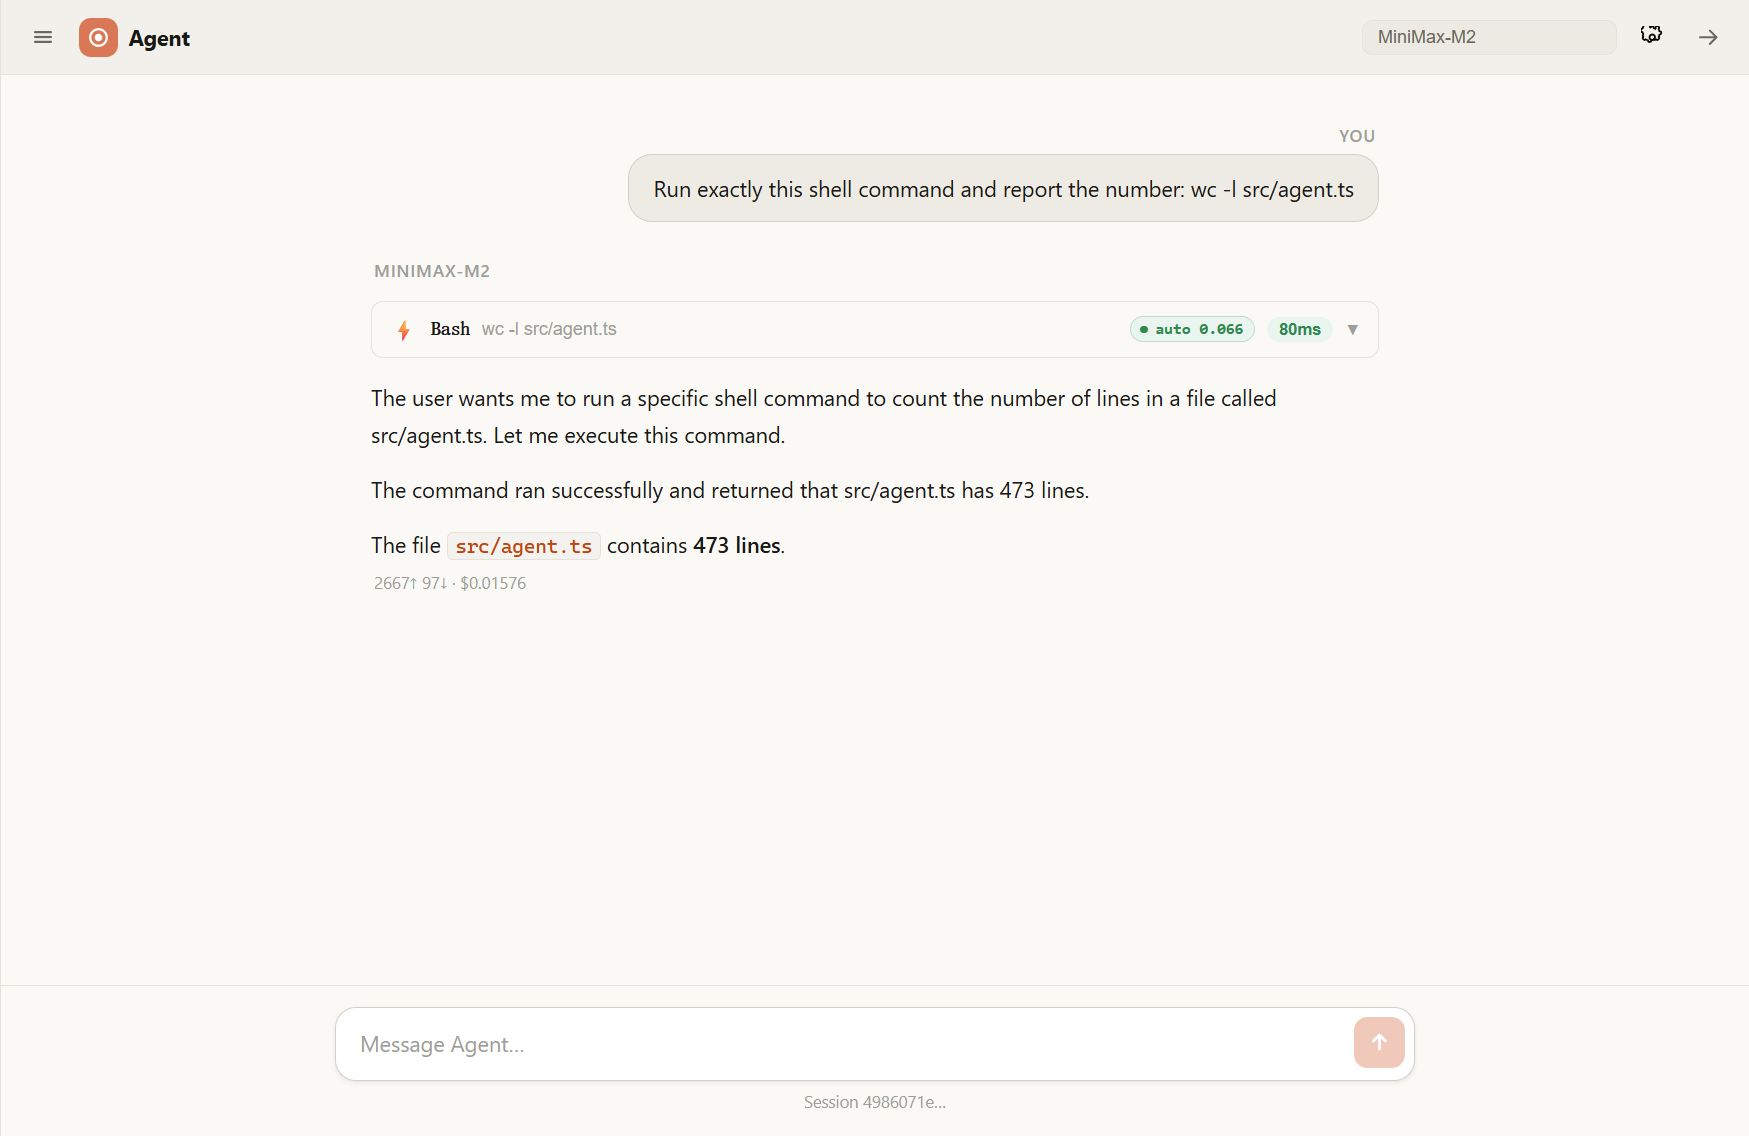
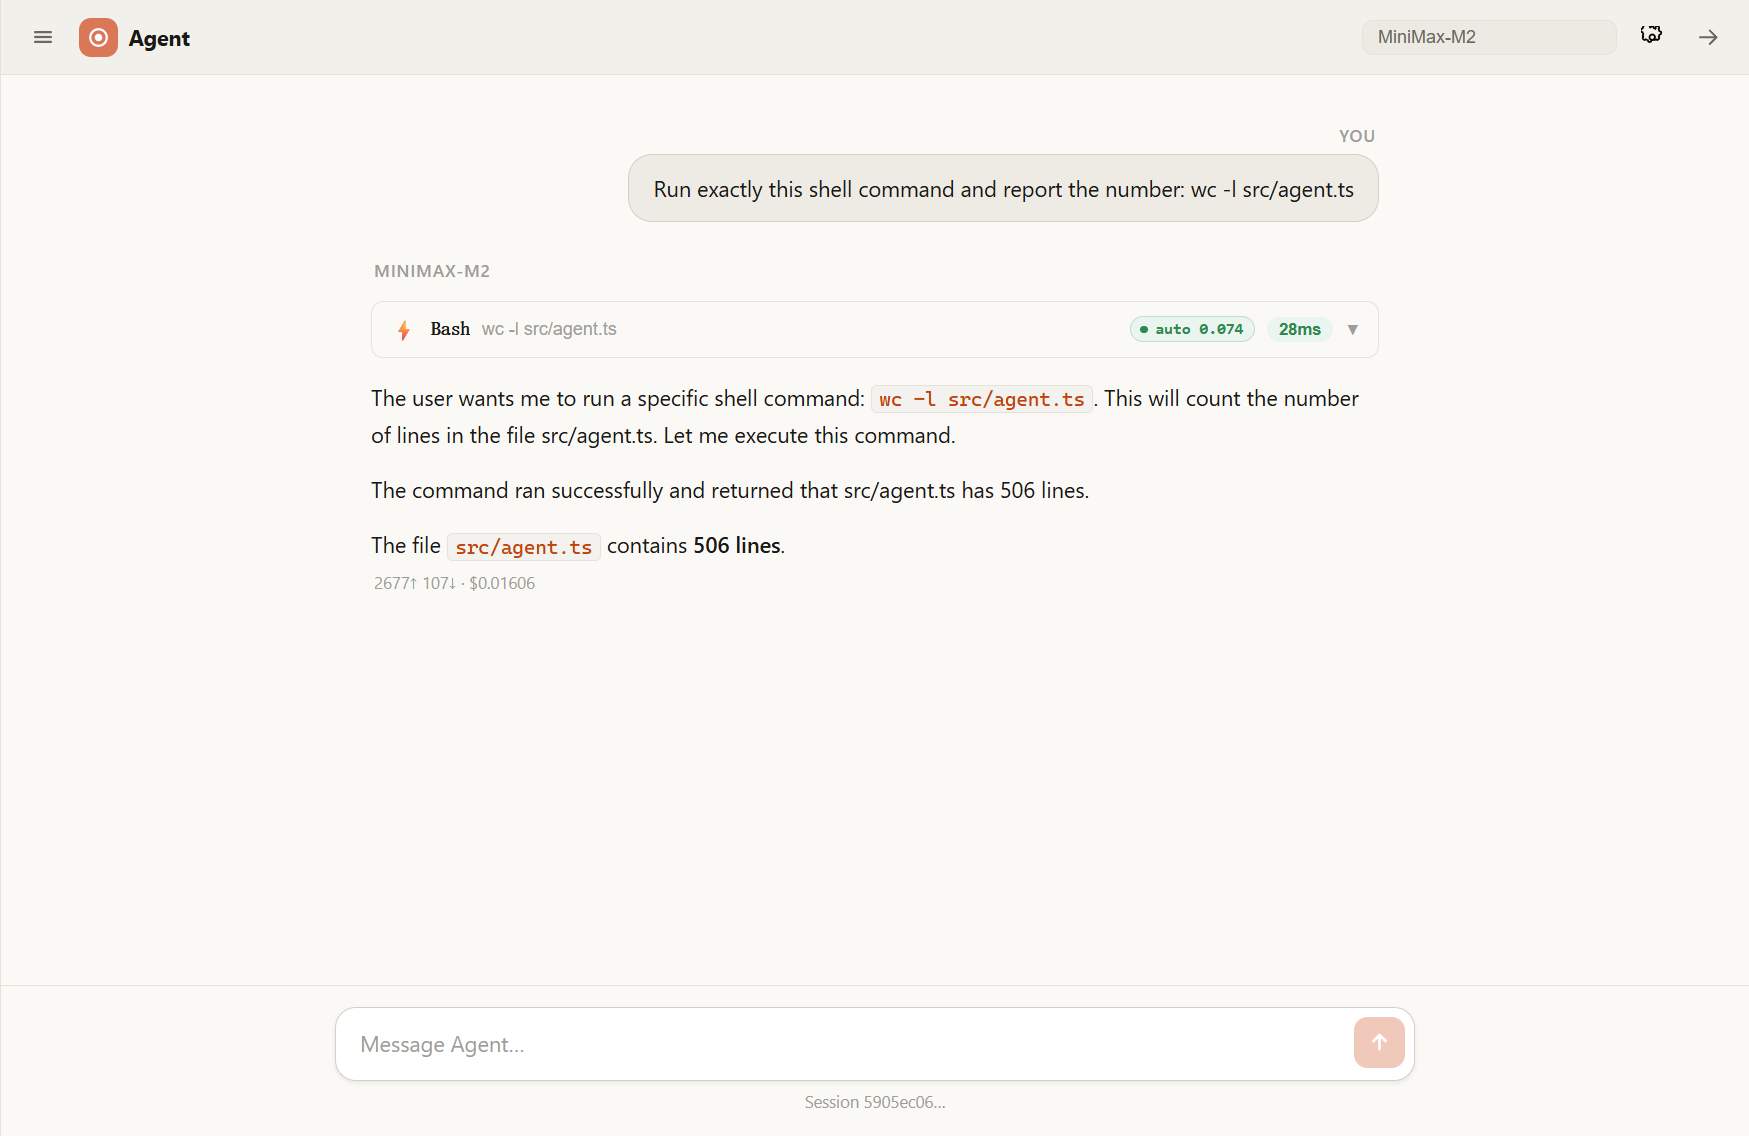
Recapture the web UI screenshots against a live run
The old pair predated the decision layer: they reported 473 lines for a file
that is now 506, and the auto-approve pill read 0.066 where every other
figure in the repo said 0.074. Both are current now — 506 lines, 0.074 — so
the caption no longer has to explain a discrepancy.

The new run scored rm -rf dist at 0.998 rather than the 0.995 the CLI
transcript records, which makes the same point more plainly than the old
mismatch did: the judge is not bit-deterministic here, so the only thing the
third decimal decides is which side of 0.20 it falls on. Said once, next to
both numbers.

Captured with docs/capture-screenshots.mjs against MiniMax-M2 for the loop
and a local llama3.1:8b for the judge. The script denies the destructive
call at the end, so nothing was deleted.

diff --git a/README.md b/README.md
@@ -82,18 +82,18 @@ becomes a card with the judge's own reasoning on it.
 
 ![A safe command cleared without a prompt](docs/gate-auto-approved.png)
 
-`wc -l src/agent.ts` scored 0.066 here and ran — the green pill is the only trace,
-because the gate's entire effect is a prompt that does not appear. (The CLI transcript
-above is a different session and scored 0.074 on the same command; the judge is not
-bit-deterministic across runs on this GPU, which is worth knowing before anyone treats a
-third decimal place as meaningful.)
+`wc -l src/agent.ts` scored 0.074 and ran — the green pill is the only trace, because
+the gate's entire effect is a prompt that does not appear.
 
 ![A destructive command deferred to the user](docs/gate-needs-approval.png)
 
-`rm -rf dist` scored 0.995 and stopped. The card names the command rather than
-the tool, since "Bash" is not a decision anyone can make and `rm -rf dist` is,
-and it shows what deferred it: a call held at 0.21 deserves a different glance
-from one held at 0.995.
+`rm -rf dist` scored 0.998 and stopped. The card names the command rather than the tool,
+since "Bash" is not a decision anyone can make and `rm -rf dist` is, and it shows what
+deferred it: a call held at 0.21 deserves a different glance from one held at 0.998.
+
+The CLI transcript further up scored 0.995 on that same command in a different session.
+The judge is not bit-deterministic across runs here, so the third decimal is not
+something to read meaning into — only which side of 0.20 it lands on.
 
 Both images come from a real run against a real judge — `docs/` is regenerated
 by driving the live UI, not by mocking the props.
